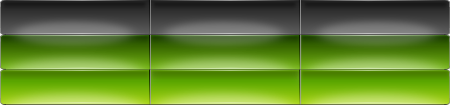
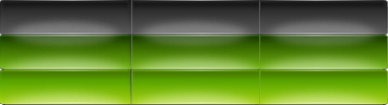
Make SecInfo Management the seventh top level menu item.
* src/html/dialog.xsl (browse_infosec.html): Rename 
	"Security Information Management" to "Lookup"

	* src/html/gsa-style.css (#gb_menu ul li a): Switch to new button width
	128px and adapt background position.
	
	* src/html/gsa-style.css (#gb_menu ul .first_button a)
	(#gb_menu ul .last_button a): Set width to 130px. Add > a to overwrite
	width only for the first link in the element.

	* src/html/gsa-style.css (#gb_menu ul li ul, #gb_menu ul li ul a)
	(#gb_menu ul li ul a): Expand submenu by 5px to avoid asymetric look with
	the new menu width.

	* src/html/gsa-style.css (#gb_menu ul li:hover a)
	(#gb_menu ul .last_button:hover a): Adopt background position

	* src/html/help.xsl (browse_infosec.html): Rename from "Security Information
	Browser" to "Security Information Lookup"

	* src/html/help.xsl (contents.html): Move SecInfo Management to the top
	level of the contents index

	* src/html/gsad.xsl (html-gsa-navigation): Move SecInfo from Extras to the
	top level.

	* style/top_menu_buttons.png:  First button and last button now
	have a width of 130px the other buttons are 128px

git-svn-id: svn+ssh://scm.wald.intevation.org/openvas/trunk/gsa@14159 423fd1db-d629-0410-8442-d21db03e70f4

diff --git a/src/html/gsa-style.css b/src/html/gsa-style.css
@@ -414,10 +414,10 @@ table.odd {
 
 #gb_menu ul li a {
  display: block;
- width: 150px;
+ width: 128px;
  height: 35px;
  background: url('img/style/top_menu_buttons.png');
- background-position: -150px 0px;
+ background-position: -130px 0px;
  line-height: 35px;
  font-size: 10px;
  color: #FFFFFF;
@@ -425,7 +425,8 @@ table.odd {
  font-weight: bold;
 }
 
-#gb_menu ul .first_button a {
+#gb_menu ul .first_button > a {
+ width: 130px;
  background-position: 0px 0px;
 }
 
@@ -433,20 +434,21 @@ table.odd {
  background-position: 0px -35px;
 }
 
-#gb_menu ul .last_button a {
- background-position: -300px 0px;
+#gb_menu ul .last_button > a {
+ width: 130px;
+ background-position: -258px 0px;
 }
 
 #gb_menu ul .last_button:hover a {
- background-position: -300px -35px;
+ background-position: -258px -35px;
 }
 
 #gb_menu ul li:hover a {
- background-position: -150px -35px;
+ background-position: -130px -35px;
 }
 
 #gb_menu ul li ul {
- width: 250px;
+ width: 255px;
  z-index: 6;
  list-style: none;
  position: absolute;
@@ -465,7 +467,7 @@ table.odd {
  text-align: left;
  text-indent: 12px;
  color: #3A3A3A;
- width: 250px;
+ width: 255px;
  height: 22px;
 }
 
@@ -475,7 +477,7 @@ table.odd {
  text-align: left;
  text-indent: 25px;
  color: #3A3A3A;
- width: 250px;
+ width: 255px;
  height: 22px;
 }
 
